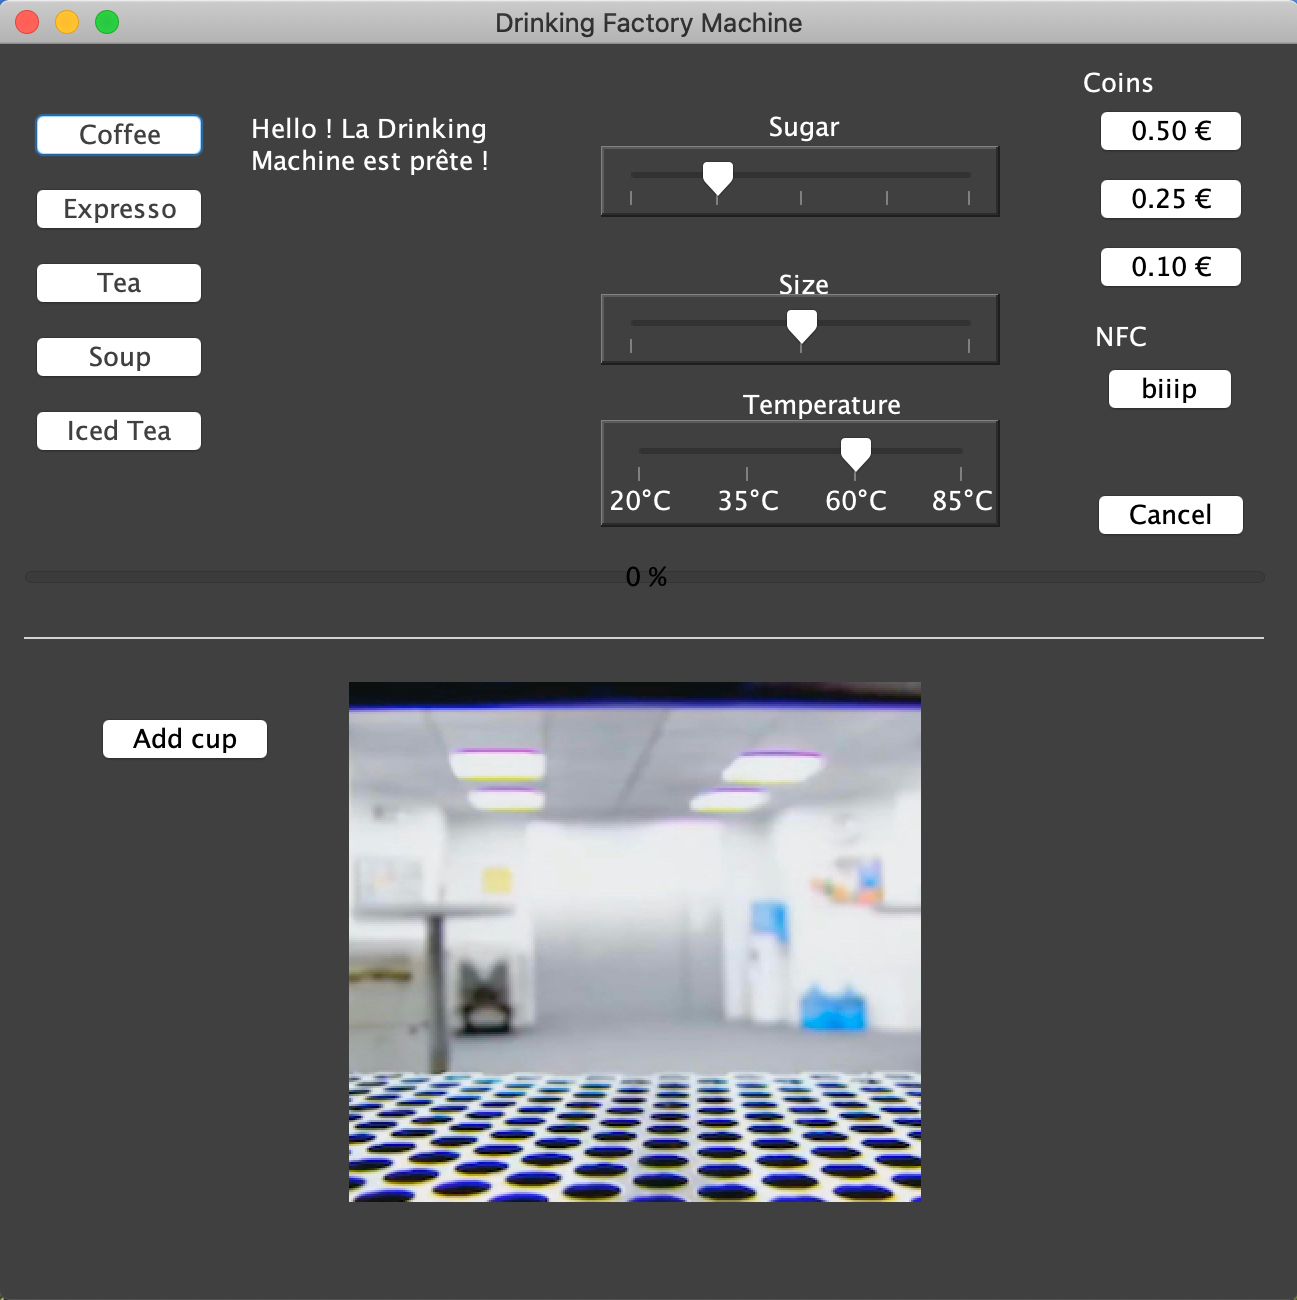
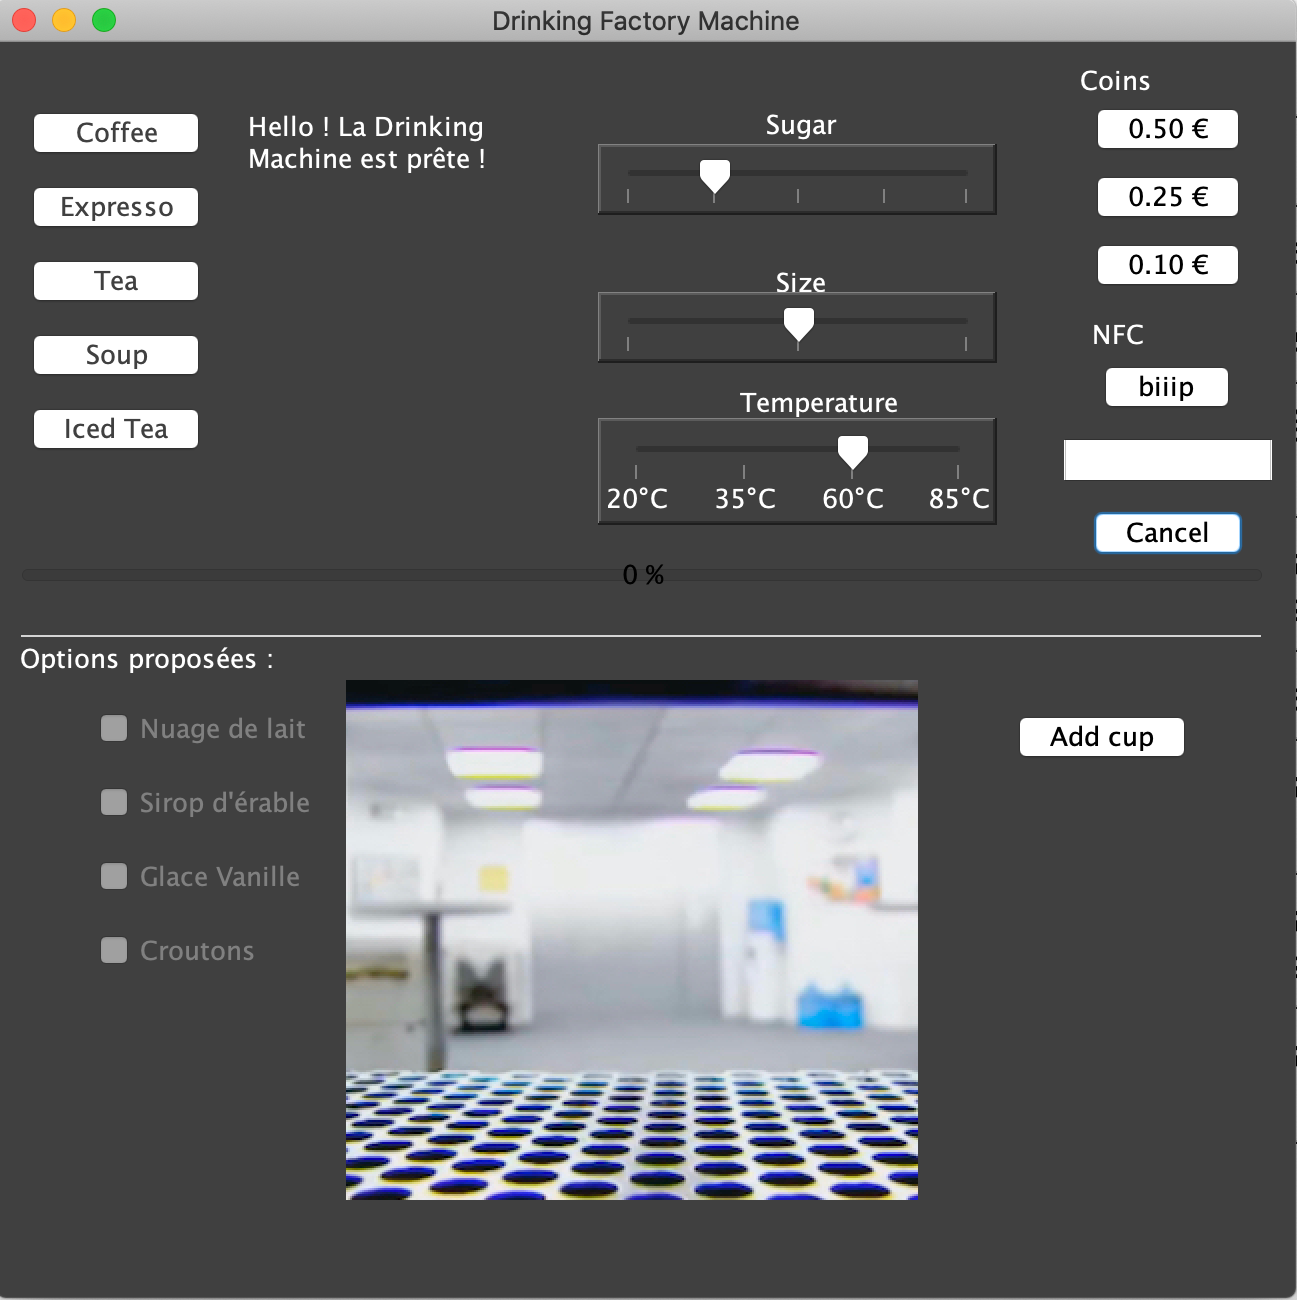
Ajout progress Bar

diff --git a/DMNV10/src/fr/univcotedazur/polytech/si4/fsm/dm/v4/DrinkFactoryMachine.java b/DMNV10/src/fr/univcotedazur/polytech/si4/fsm/dm/v4/DrinkFactoryMachine.java
@@ -43,15 +43,15 @@ public class DrinkFactoryMachine extends JFrame {
 	private int montant;
 
 	private int stockCoffe = 15; // nombre de dosette de cafee
-	private int stockTea = 2; // nombre de sachet de the
-	private int stockExpresso = 2; // nombre de packet de grain pour l expresso
+	private int stockTea = 3; // nombre de sachet de the
+	private int stockExpresso = 3; // nombre de packet de grain pour l expresso
 	private int stockSoup = 10; // nombre de dose de soupe
 	private int stockSugar = 25; // nombre de dose de sucre
 	private int stockSpices = 25; // nombre de dose d epice
 	private int stockErable = 10; // nombre de dose de sirop d erable
 	private int stockMilk = 10 ; // nombre de dose de lait
 	private int stockGlaceVanille = 10; // nombre de dose de glace vanille
-	private int stockCrouton = 1; // nombre de dose de crouton
+	private int stockCrouton = 3; // nombre de dose de crouton
 
 	long poorDelay;
 	long currentPoorDelay = 0;
@@ -505,7 +505,7 @@ public class DrinkFactoryMachine extends JFrame {
 	}
 
 	private int getMontant() {
-		int montant = 1;
+		int montant = 0;
 		switch (selection) {
 			case "Coffee":
 				montant = coffePrice + (milkButton.isSelected() ? 10 : 0) + (siropErableButton.isSelected() ? 10 : 0) + (glaceVanilleButton.isSelected() ? 40 : 0);
@@ -734,6 +734,7 @@ public class DrinkFactoryMachine extends JFrame {
 
 		if (!currentTemperatureChange) {
 			delay = (long) (1000 * (wantedTemperature - currentTemperature) / 20);
+			startProgressBar(delay, wantedTemperature);
 			System.out.println("début chauffage");
 			setMessageToUser("Début du chauffage de l'eau");
 			repaint();
@@ -755,6 +756,7 @@ public class DrinkFactoryMachine extends JFrame {
 
 		if (!currentTemperatureChange) {
 			delay = (long) (1000 * (currentTemperature - wantedTemperature) / 5);
+			startProgressBar(delay, wantedTemperature);
 			System.out.println("début refroidissmenet");
 			setMessageToUser("Début du refroidissement de l'eau");
 			repaint();
@@ -797,6 +799,37 @@ public class DrinkFactoryMachine extends JFrame {
 		defineDelayPoor(size);
 		System.out.println("poor delay = " + poorDelay);
 		id.setText("");
+	}
+
+	private void startProgressBar(double delay, double wantedTemperature) {
+		long duree = 0;
+		if (selection.contains("Tea")) duree += 10;
+
+		double totalTimeHeating = Math.abs((wantedTemperature - currentTemperature)) / (delay / 600.0);
+		double totalTimePooring = (poorDelay * 0.5) / 500;
+		totalTimePooring += (milkButton.isSelected())? 1 : 0;
+		totalTimePooring += (glaceVanilleButton.isSelected())? 1 : 0;
+		totalTimePooring = (croutonButton.isSelected() && totalTimePooring < 3) ? 3 : totalTimePooring;
+
+
+		duree += totalTimeHeating;
+		duree += totalTimePooring;
+
+		long finalDuree = duree * 1000;
+		TimerTask repeatedTask = new TimerTask() {
+			public void run() {
+				progressBarValue += 1.0;
+				progressBar.setValue(progressBarValue);
+				repaint();
+				if (progressBarValue >= 100) {
+					cancel();
+				}
+			}
+		};
+		Timer timer = new Timer("TimerProgressBar");
+		timer.scheduleAtFixedRate(repeatedTask, 0, finalDuree / 100);
+		repaint();
+
 	}
 
 	private int doRendu() {
@@ -1005,6 +1038,23 @@ public class DrinkFactoryMachine extends JFrame {
 	public void doWash() {
 		setMessageToUser("Washing in progress");
 		System.out.println("Washing");
+		long delay = 5000;
+		TimerTask repeatedTask = new TimerTask() {
+			public void run() {
+				progressBarValue-= 1.0;
+				progressBar.setValue(progressBarValue);
+				repaint();
+				if(progressBarValue<=0){
+					cancel();
+				}
+			}
+		};
+		Timer timer = new Timer("TimerProgressBar");
+		timer.scheduleAtFixedRate(repeatedTask, 0, delay/100);
+		repaint();
+
+
+
 	}
 	//------------------------------------------------------METHOD DO----------------------------------------------------------------//
 	//--------------------------------------------------------OTHERS----------------------------------------------------------------//
@@ -1198,9 +1248,7 @@ public class DrinkFactoryMachine extends JFrame {
 
 	//---------------------------------------------------OTHERS----------------------------------------------------------------//
 
-	//TODO créer classe Stock
 	//Optionnel
-	// TODO: 06/11/2020 nouvelle gestion de la progress bar
-	// TODO: 06/11/2020 ajout des sons et du popcorn
+	// TODO: 06/11/2020 ajout du popcorn
 
 }

diff --git a/DMNV10/src-gen/dmnv10/defaultsm/DefaultSMStatemachine.java b/DMNV10/src-gen/dmnv10/defaultsm/DefaultSMStatemachine.java
@@ -2794,7 +2794,7 @@ public class DefaultSMStatemachine implements IDefaultSMStatemachine {
 				enterSequence_main_Prepare2_r2_Infuse_default();
 				main_Prepare2_react(false);
 			} else {
-				if (((timeEvents[16]) && ((sCInterface.operationCallback.isPoor() && (((sCInterface.getMySelection()== null?"Tea" !=null : !sCInterface.getMySelection().equals("Tea")) || (sCInterface.getMySelection()== null?"IcedTea" !=null : !sCInterface.getMySelection().equals("IcedTea")))))))) {
+				if (((timeEvents[16]) && ((sCInterface.operationCallback.isPoor() && (((sCInterface.getMySelection()== null?"Tea" !=null : !sCInterface.getMySelection().equals("Tea")) && (sCInterface.getMySelection()== null?"IcedTea" !=null : !sCInterface.getMySelection().equals("IcedTea")))))))) {
 					exitSequence_main_Prepare2_r2_poor();
 					react_main_Prepare2_r2__choice_0();
 				} else {
